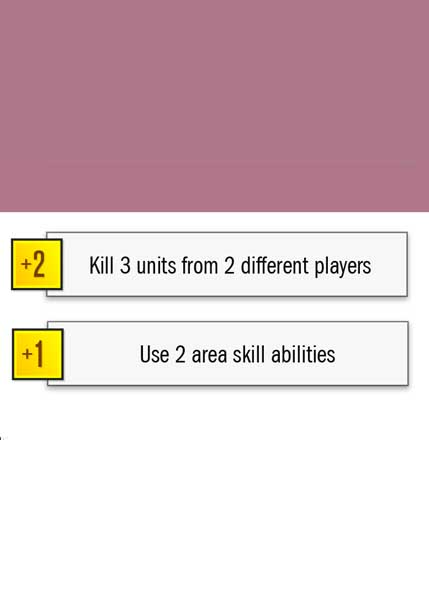
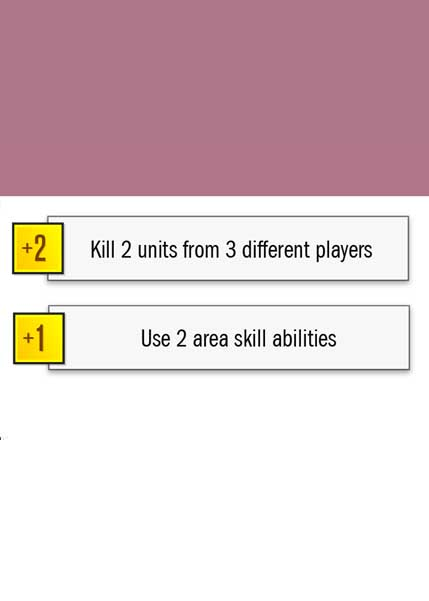
minor spider plan tweak

Changed region(s): [[0.0, 0.2995, 1.0, 0.6589]]

diff --git a/server/classes/factions/plans/spidersPlans.js b/server/classes/factions/plans/spidersPlans.js
@@ -6,7 +6,7 @@ let obj = [
         objectives : [
             {
                 requirements : [
-                    { test : 'killsByPlayer', args : [3,2] },
+                    { test : 'killsByPlayer', args : [2,3] },
                 ],
                 value : 2
             },
